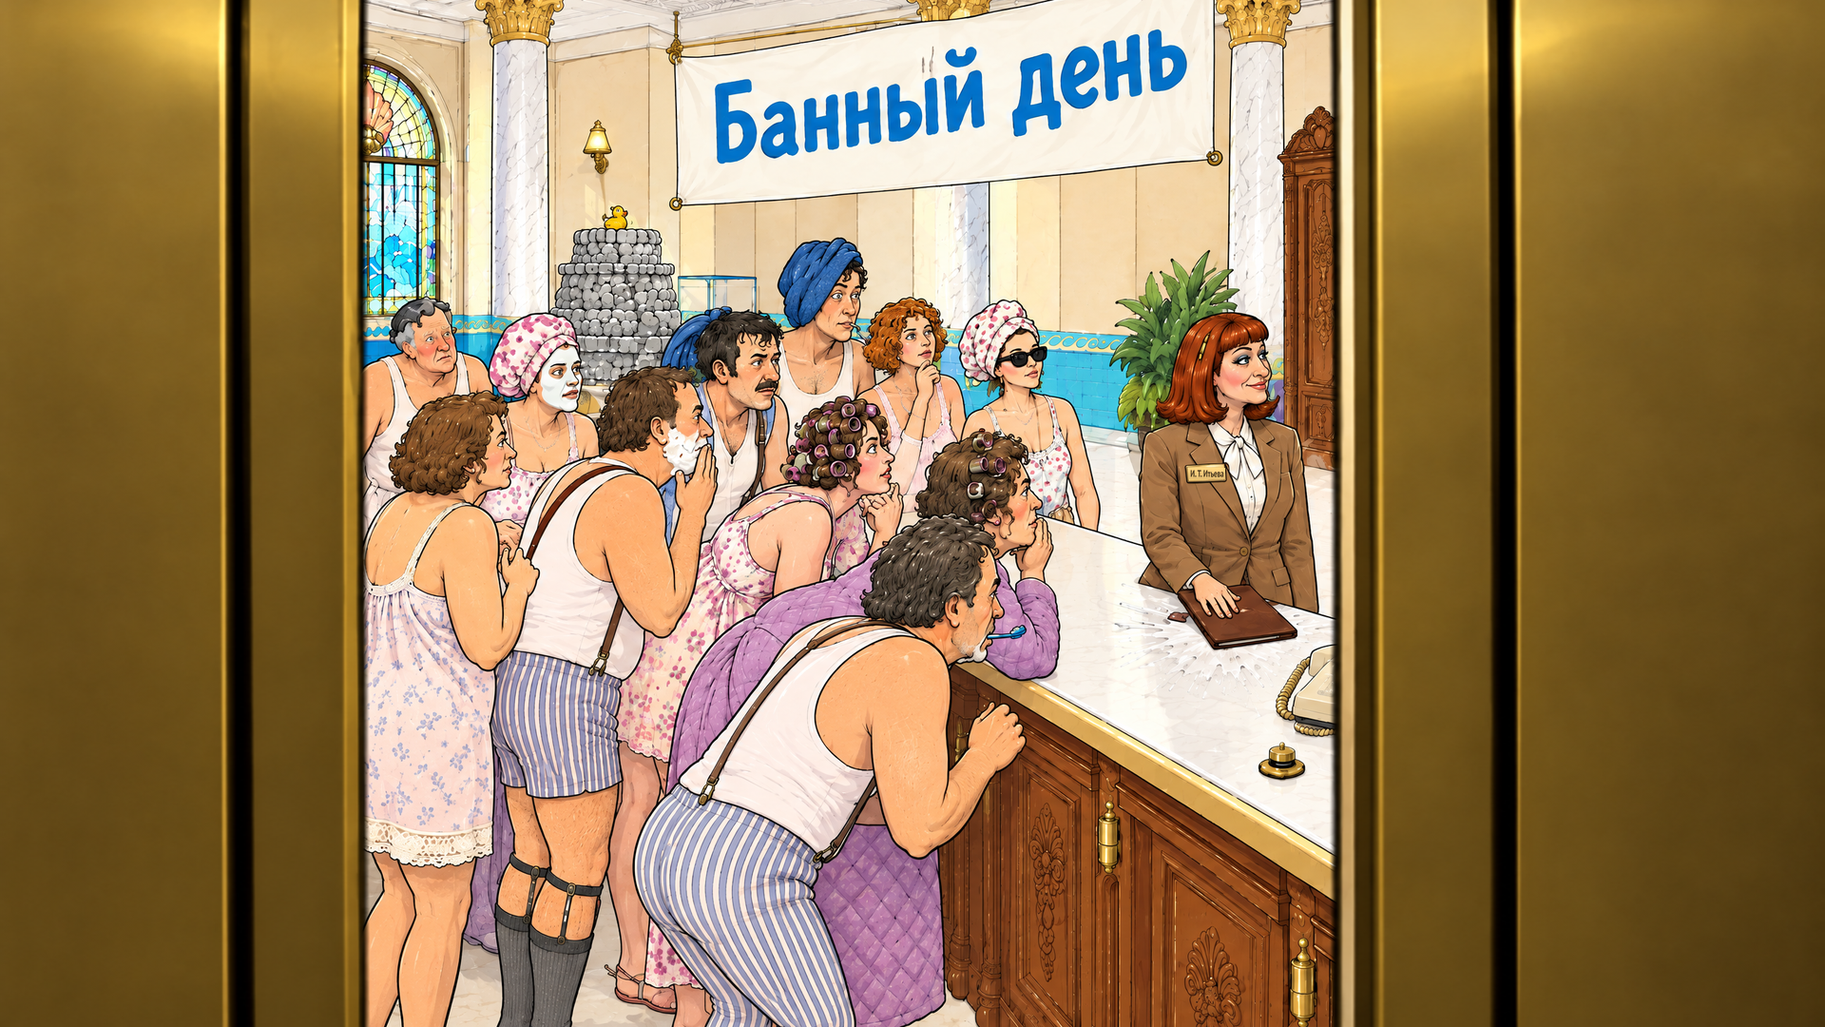
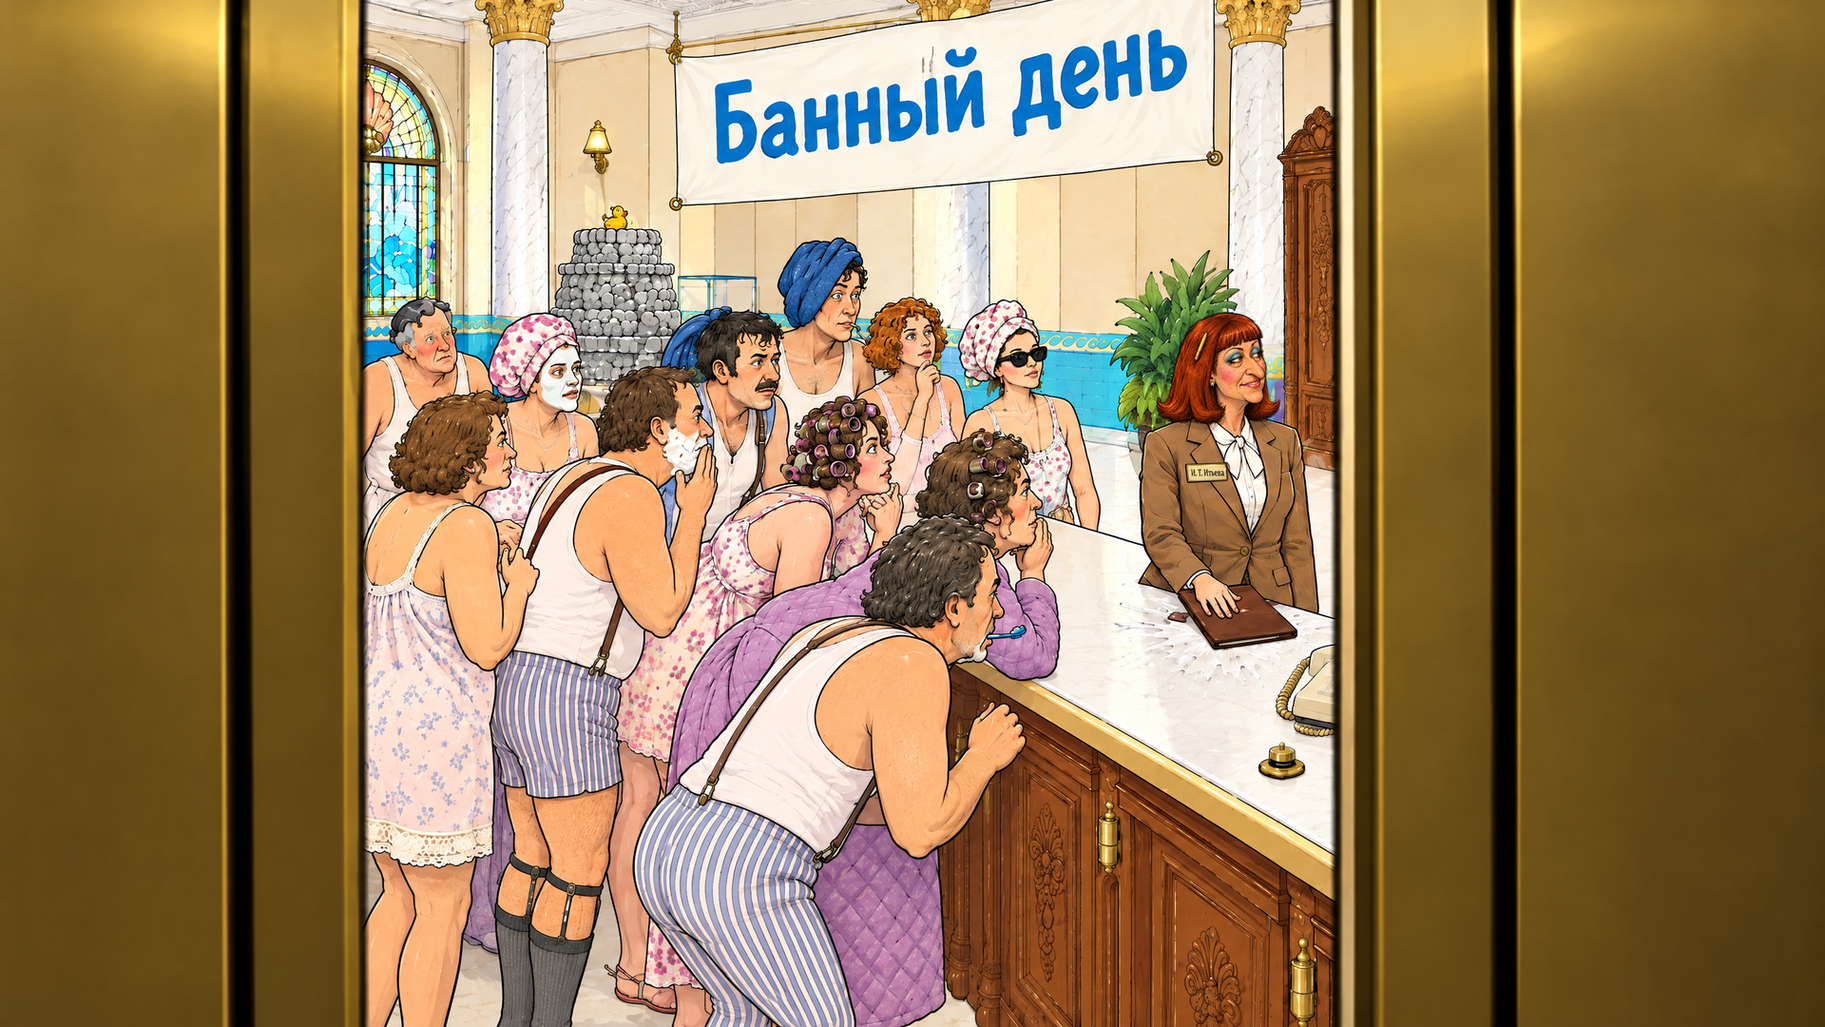
Раунд 5: Изольда на кадрах из лифта — вариант «б»; кадр с официантом — открытый проход в стойке (кандидат)
Claude-Session: https://claude.ai/code/session_01AmbdRPQad6KLKiqRm745ZE

Changed region(s): [[0.5938, 0.275, 0.7188, 0.5806]]

diff --git a/PROJECT_STATUS_HYDROUDAR.md b/PROJECT_STATUS_HYDROUDAR.md
@@ -4,7 +4,7 @@
 
 ## Точка входа для новой сессии
 
-- ★★★★★★★★★★★★★★★★★★★★★★★★★★★★★★ **16.10.2026, вечер — ВСЯ ИГРА СОБРАНА И ПРОХОДИТСЯ ОТ НАЧАЛА ДО ЭПИЛОГА. Игра (та же ссылка): https://claude.ai/artifact/E2YwhX4ZapWa6rPZ721VLQ. Прохождение: https://claude.ai/artifact/WSme7L1qRHTmGf2B1XK534. Ветка `claude/act3-build-1016`, черновой PR.** **Акт III** — `design/logic/ACT3_LOGIC.md` (12 видов, 73 зоны): тележка в зал и к лестнице, лифт за зеркалом (порожек, вантуз-присоска), вынос «дизайна», трап «НАШЕ», пробный пуск с водой «Каскадъ», счёт (читается сразу в сцене), счёт под печать — признание Изольды, доклад для накладной, погрузка, доклад по громкой связи, спуск под тележкой (и вариант «оплата одна» → под пустой тележкой). **Акт IV** — `design/logic/ACT4_LOGIC.md` (11 видов, 48 зон): прибытие и приёмка груза (сразу за вступлением), вылезти, доложиться, контора, журнал — вантуз, маховик, финальный монтаж воды, эпилог по числу реликвий (8 сочетаний), карточка «Конец»; реликвии можно добрать наверху после доклада. **Движок:** звук на N-й реплике сцены (`имя@N`), обрыв музыки и новая тема в одном шаге (появление Кухтулху), конец игры; условия логики могут читать флаги прошлых актов; проверка логики начинает и с флагов, которые приходят только из прошлого акта. **Проверки:** `check_logic.py 1 2 3 4` — чисто (Акт III — 11 993 состояния, Акт IV — 392); тесты — 162; автопрохождение всей игры — 244 проверки, AUTOPLAY OK; дымовой тест — OK; **матрица H01–H26** — `tools/data/check_matrix.py` → `docs/BJ3_MATRIX_H.md`. **Решения по ходу (на взгляд автора; списком в `ACT3_LOGIC.md` и `ACT4_LOGIC.md`):** счёт читается сразу после пробного пуска; `W4.lift.search` — в зале (реплика «только здесь, в зале»; в SLOT_FLAGS — «в прачечной или вестибюле»); доска «НАШЕ» достаётся из кучи в зале (в SLOT_FLAGS — «в зуме Z11»); тема совета `down` открыта с погрузки кефира и после отправки оплаты одной (иначе совет говорил «Тут всё»); меловые «НАШЕ» и «НЕ ТРОГАТЬ» у лифта — надписи движка; выкат к столу приёма (E01) — сразу за вступлением Акта IV; графы журнала на уступе — надписи движка (круг вантуза и её оттиск на странице после отметки не рисуются — нужен слой, вопрос автору). **Ждёт автора:** раунд 5 (страница https://claude.ai/artifact/9j3eFwwkW88PBjMqBSBxaL — отметок нет), просмотр Актов III–IV. **Дальше:** ответы раунда 5 → правки по просмотру → шаг 7 (редакторский проход текстов).
+- ★★★★★★★★★★★★★★★★★★★★★★★★★★★★★★ **16.10.2026, вечер — ВСЯ ИГРА СОБРАНА И ПРОХОДИТСЯ ОТ НАЧАЛА ДО ЭПИЛОГА. Игра (та же ссылка): https://claude.ai/artifact/E2YwhX4ZapWa6rPZ721VLQ. Прохождение: https://claude.ai/artifact/WSme7L1qRHTmGf2B1XK534. Ветка `claude/act3-build-1016`, черновой PR.** **Акт III** — `design/logic/ACT3_LOGIC.md` (12 видов, 73 зоны): тележка в зал и к лестнице, лифт за зеркалом (порожек, вантуз-присоска), вынос «дизайна», трап «НАШЕ», пробный пуск с водой «Каскадъ», счёт (читается сразу в сцене), счёт под печать — признание Изольды, доклад для накладной, погрузка, доклад по громкой связи, спуск под тележкой (и вариант «оплата одна» → под пустой тележкой). **Акт IV** — `design/logic/ACT4_LOGIC.md` (11 видов, 48 зон): прибытие и приёмка груза (сразу за вступлением), вылезти, доложиться, контора, журнал — вантуз, маховик, финальный монтаж воды, эпилог по числу реликвий (8 сочетаний), карточка «Конец»; реликвии можно добрать наверху после доклада. **Движок:** звук на N-й реплике сцены (`имя@N`), обрыв музыки и новая тема в одном шаге (появление Кухтулху), конец игры; условия логики могут читать флаги прошлых актов; проверка логики начинает и с флагов, которые приходят только из прошлого акта. **Проверки:** `check_logic.py 1 2 3 4` — чисто (Акт III — 11 993 состояния, Акт IV — 392); тесты — 162; автопрохождение всей игры — 244 проверки, AUTOPLAY OK; дымовой тест — OK; **матрица H01–H26** — `tools/data/check_matrix.py` → `docs/BJ3_MATRIX_H.md`. **Решения по ходу (на взгляд автора; списком в `ACT3_LOGIC.md` и `ACT4_LOGIC.md`):** счёт читается сразу после пробного пуска; `W4.lift.search` — в зале (реплика «только здесь, в зале»; в SLOT_FLAGS — «в прачечной или вестибюле»); доска «НАШЕ» достаётся из кучи в зале (в SLOT_FLAGS — «в зуме Z11»); тема совета `down` открыта с погрузки кефира и после отправки оплаты одной (иначе совет говорил «Тут всё»); меловые «НАШЕ» и «НЕ ТРОГАТЬ» у лифта — надписи движка; выкат к столу приёма (E01) — сразу за вступлением Акта IV; графы журнала на уступе — надписи движка (круг вантуза и её оттиск на странице после отметки не рисуются — нужен слой, вопрос автору). **Раунд 5, 16.10 (отметки автора):** Изольда на кадрах из лифта — «б»: выглядывание в `assets/`; кадр с официантом — по замечанию «так никто никуда не проедет» перерисован проход в стойке (`fr_a1_lobby_waiter__b_gate`, вопрос r5_gate, в превью — кандидатом). **Ждёт автора:** остальные пункты раунда 5 и r5_gate, просмотр Актов III–IV. **Дальше:** ответы раунда 5 → правки по просмотру → шаг 7 (редакторский проход текстов).
 - ★★★★★★★★★★★★★★★★★★★★★★★★★★★★★ **16.10.2026 — PR #23 СЛИТ В `main` («сливай»). Следующая сессия — продолжение разбора автора: раунд 5 на странице выбора https://claude.ai/artifact/9j3eFwwkW88PBjMqBSBxaL (коллекция `picks`, слоты `r5_*`: Изольда на кадрах лифта, ящики Z04 и W2, рука на папке и звук «хлоп», новые строки, мокрый круг, сноска меню, «под тележкой», бумага в архиве).** Работать от свежего `main`. Порядок: прочитать отметки (`ArtifactData list picks`), внести выбранное (арт — из `work/higgsfield/candidates/act2_fix_1016/`, звук — `work/audio/candidates/s7_slap_1016/`, прежние файлы — в `work/orig_gfx/`; слои ящиков и руки — `tools/assets/cutout.py` от новой основы, зоны ящиков в `ACT2_LOGIC.md`; тексты — через `texts/rewrite/`), пересобрать превью по той же ссылке, затем Акт III.
 - ★★★★★★★★★★★★★★★★★★★★★★★★★★★★ **16.10.2026 — РАЗБОР АВТОРА ПО АКТАМ I–II (20 ПУНКТОВ) ВНЕСЁН; РАУНД 5 НА СТРАНИЦЕ https://claude.ai/artifact/9j3eFwwkW88PBjMqBSBxaL. Игра (та же ссылка): https://claude.ai/artifact/E2YwhX4ZapWa6rPZ721VLQ.** **Сделано в игре:** вантуз держится за кафель; позвонить можно только после осмотра путёвки (`Z02.phone.nonumber`); звёзды складываются только после попытки выкатить тележку (`Z03.trolley.push`); в тележку — только после проб всех шести жидкостей (`Z03.under.not_all`), у каждой жидкости своя первая реплика; глаголы «Залезть в тележку» и пр.; «каскад» → «фонтан» там, где речь о фонтане вестибюля (название отеля и воды «Каскадъ» не тронуты); регламент — «внизу листа» вместо «на обороте»; сцена заявок — три бланка и три звонка (`OPEN.requests`), бланки на стойке можно осмотреть (`Z04.forms.look`, `.stapled`), зоны ящиков сдвинуты с бланков; из вестибюля в прачечную и зал — служебный коридор у левого края (зал за гостями огорожен); надписи движка (таблица «Надписи» в логике): подпись на постаменте экспоната и бирка «ЭКСПОНАТ № 1», табло стиралок «0:47 / НЕТ ПОДАЧИ ВОДЫ», имя на доске почёта; постоянные указатели выходов на всех экранах; журнал приёмки — разворотом, без текста через корешок; тормоза через 5–10 минут — накопление области отсечения холста (исправлено в `view.js`) и кэш картинок с вытеснением (`assets.js`). Проверено: `check_logic.py 1 2` — чисто; `check_texts.py` — все акты; `check_slot_flags.py` — 0; автопрохождение Актов I–II — AUTOPLAY OK. Журнальное прохождение `docs/WALKTHROUGH_GUIDE.html` и `docs/WALKTHROUGH_SPOILERS.md` обновлены. **Ждёт автора (раунд 5):** Изольда на кадрах из лифта (кандидаты а/б, в превью — а); ящики стойки Z04 вместо дверец (а/б) и та же правка на W2; рука Изольды на папке (а/б) и звук «хлоп» (1/2/3); новые строки `Z02.phone.nonumber`, `Z03.under.not_all`, `OPEN.requests`/`TALK.req.open`, `Z04.forms.look(.stapled)`; мокрый круг в сцене из лифта (канон: скелет, сдача Акта I AS17 — сам не убирал); сноска «только струёй» в карточке меню; «под тележкой» в репликах; отказ брать бумагу в архиве. Кандидаты — `work/higgsfield/candidates/act2_fix_1016/`, `work/audio/candidates/s7_slap_1016/`. **Дальше:** ответы раунда 5 → Акт III.
 - ★★★★★★★★★★★★★★★★★★★★★★★★★★★ **14.10.2026, поздний вечер — РЕШЕНИЕ АВТОРА: АКТОВ ДЛЯ ИГРОКА НЕТ, ОДНА ЦЕЛЬНАЯ ИГРА.** Заставка между актами снята: за последней репликой Акта I сразу начинается Акт II, без номеров, названий и кнопок (GDD §9; строки актов убраны из `texts/ui/UI_TEXTS.md`). В превью после Акта II — служебное «Продолжение — в следующей сборке». Игра (та же ссылка): https://claude.ai/artifact/E2YwhX4ZapWa6rPZ721VLQ. Дальше — Акт III.

diff --git a/work/higgsfield/candidates/act2_fix_1016/README.md b/work/higgsfield/candidates/act2_fix_1016/README.md
@@ -18,6 +18,8 @@
 
 После выбора: файл заменит `assets/gfx/frames/<имя>.png`, прежний — в `work/orig_gfx/frames/`.
 
+**Выбор автора 16.10.2026 (r5_iz): вариант «б».** `fr_a1_lobby_peek__b` — в `assets/` (прежний — `work/orig_gfx/fr_a1_lobby_peek__молодая_ИТ_до_16.10.png`). К кадру с официантом замечание: «посмотри внимательно как изольда поднимает откидную доску. так никто никуда не проедет» — новый кандидат `fr_a1_lobby_waiter__b_gate.png`: столешница поднята стоймя, деревянная створка под ней распахнута, проход шириной с тележку (участок 960,300–1440,1080, два прохода генератора, бейдж вписан `badge_text.py`, полоса рамки лифта — из варианта «б»). Вопрос r5_gate на странице выбора; в превью — через `--try`.
+
 ## 2. Ящики стойки (Z04)
 
 Разбор автора: «есть указатели верхний ящик нижний ящик но на картинке никаких ящиков нет». На `zoom_z04` боковина стойки нарисована дверцами на латунных петлях (решение 11.10.2026 «резные филёнки, как на W2»), и подпись «Верхний ящик» указывает на дверцу.
